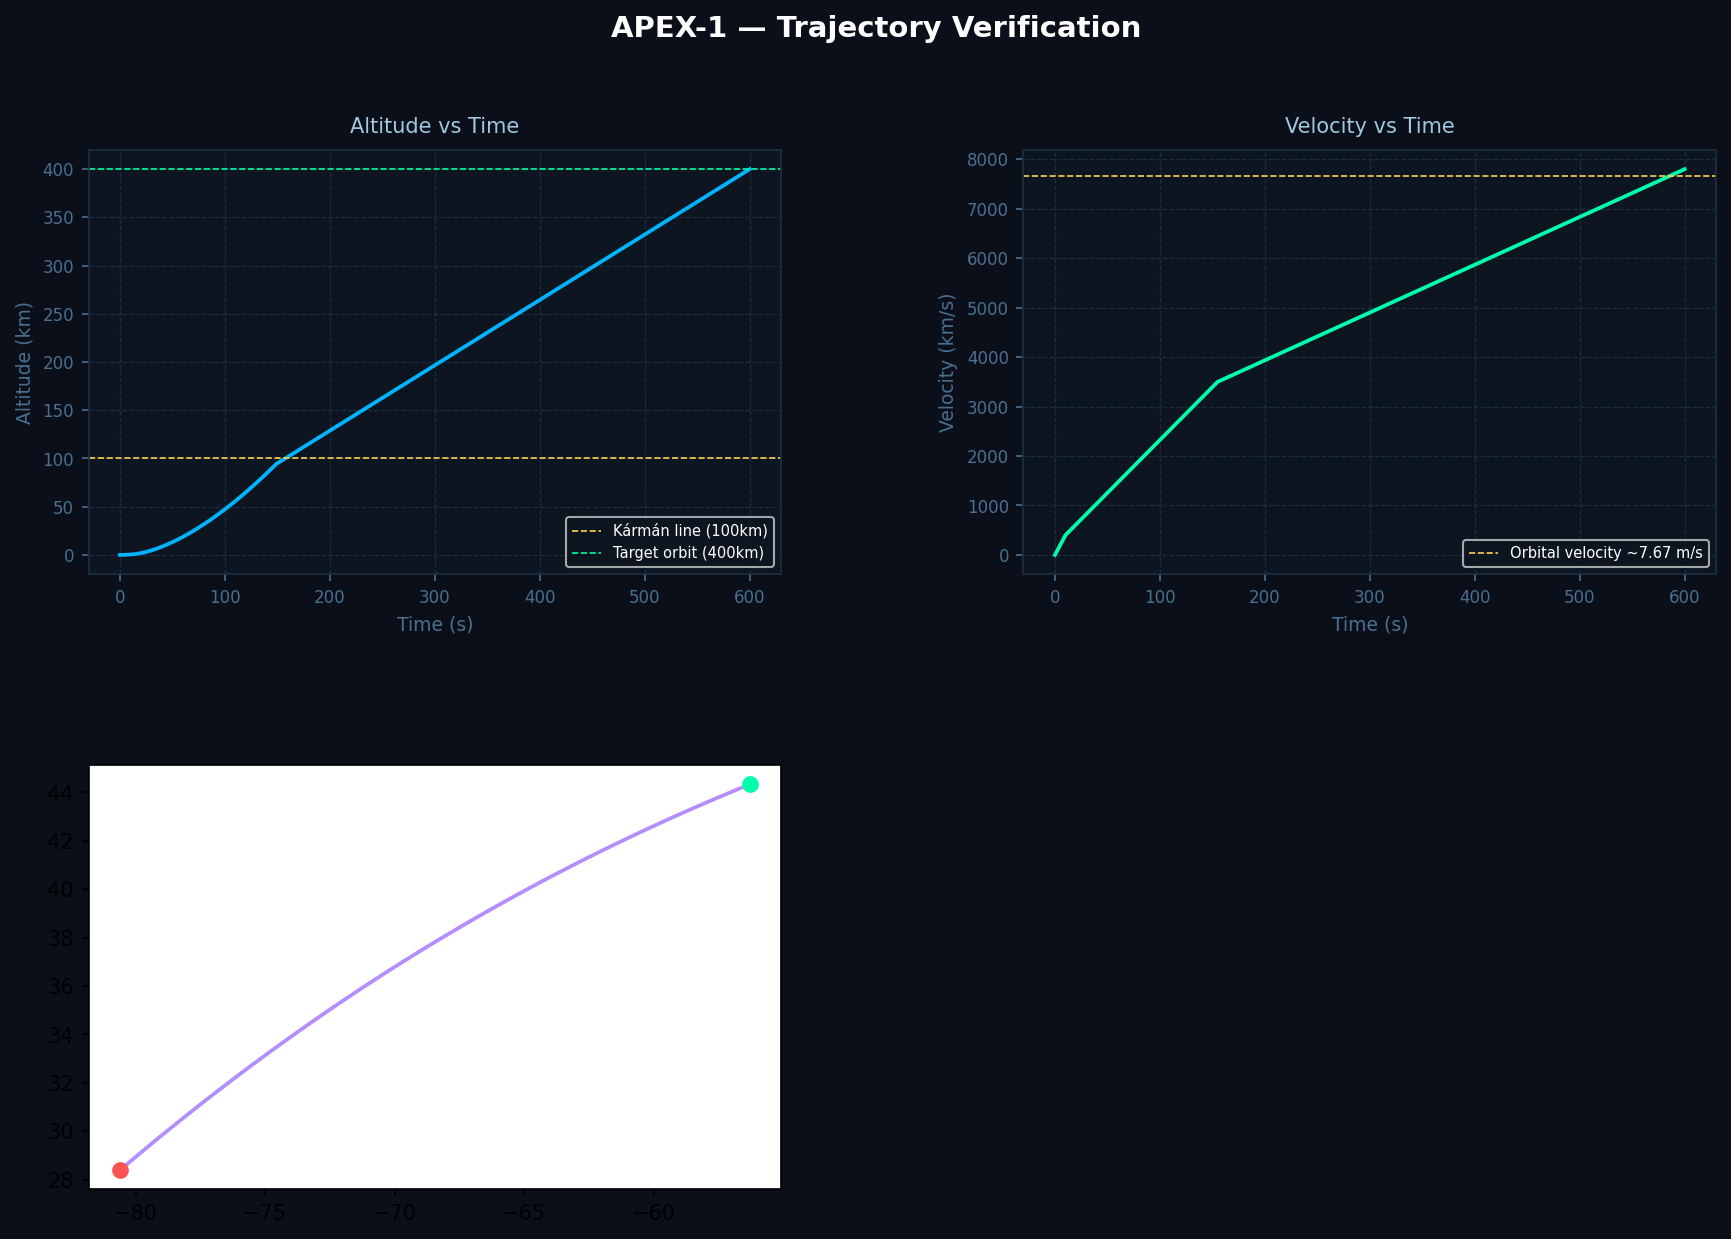
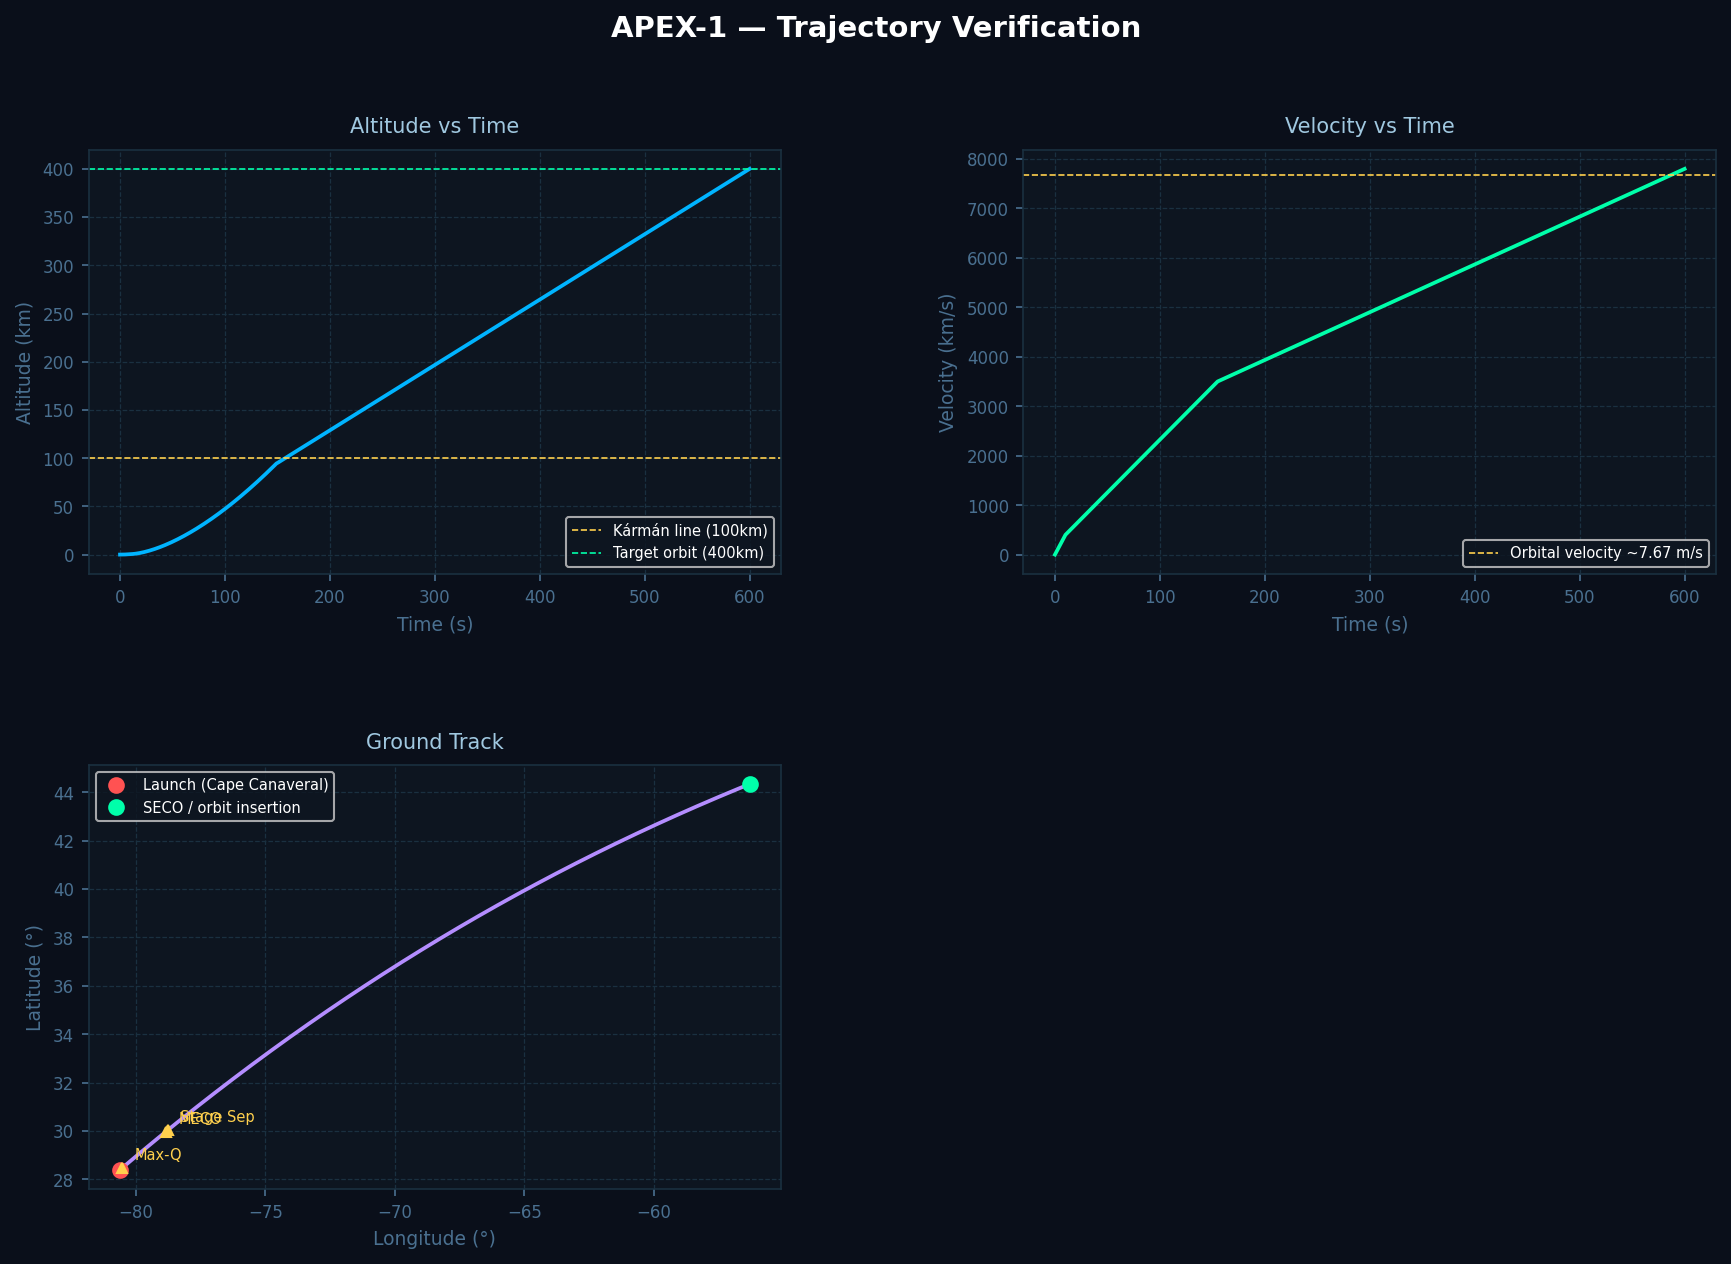
event marks on ground track

diff --git a/backend/plot.py b/backend/plot.py
@@ -75,6 +75,22 @@ ax3.plot(lons[0], lats[0], "o", color="#ff5252",
 ax3.plot(lons[-1], lats[-1], "o", color="#00ffaa",
          markersize=7, label="SECO / orbit insertion", zorder=5)
 
+# Mark key events on the ground track
+milestones = [74, 150, 153]
+labels     = ["Max-Q", "MECO", "Stage Sep"]
+for mi, lbl in zip(milestones, labels):
+    idx = min(mi, len(pts)-1)
+    ax3.plot(pts[idx]["lon"], pts[idx]["lat"],
+             "^", color="#ffd04d", markersize=5, zorder=5)
+    ax3.annotate(lbl,
+                 (pts[idx]["lon"], pts[idx]["lat"]),
+                 textcoords="offset points", xytext=(6, 4),
+                 color="#ffd04d", fontsize=7)
+
+ax3.legend(fontsize=7, facecolor="#0d1520",
+           labelcolor="white", framealpha=0.8)
+style_ax(ax3, "Ground Track", "Longitude (°)", "Latitude (°)")
+
 # SAVE AND SHOW THE FIGURE
 plt.savefig("backend/trajectory_check.png",
             dpi=150, bbox_inches="tight",